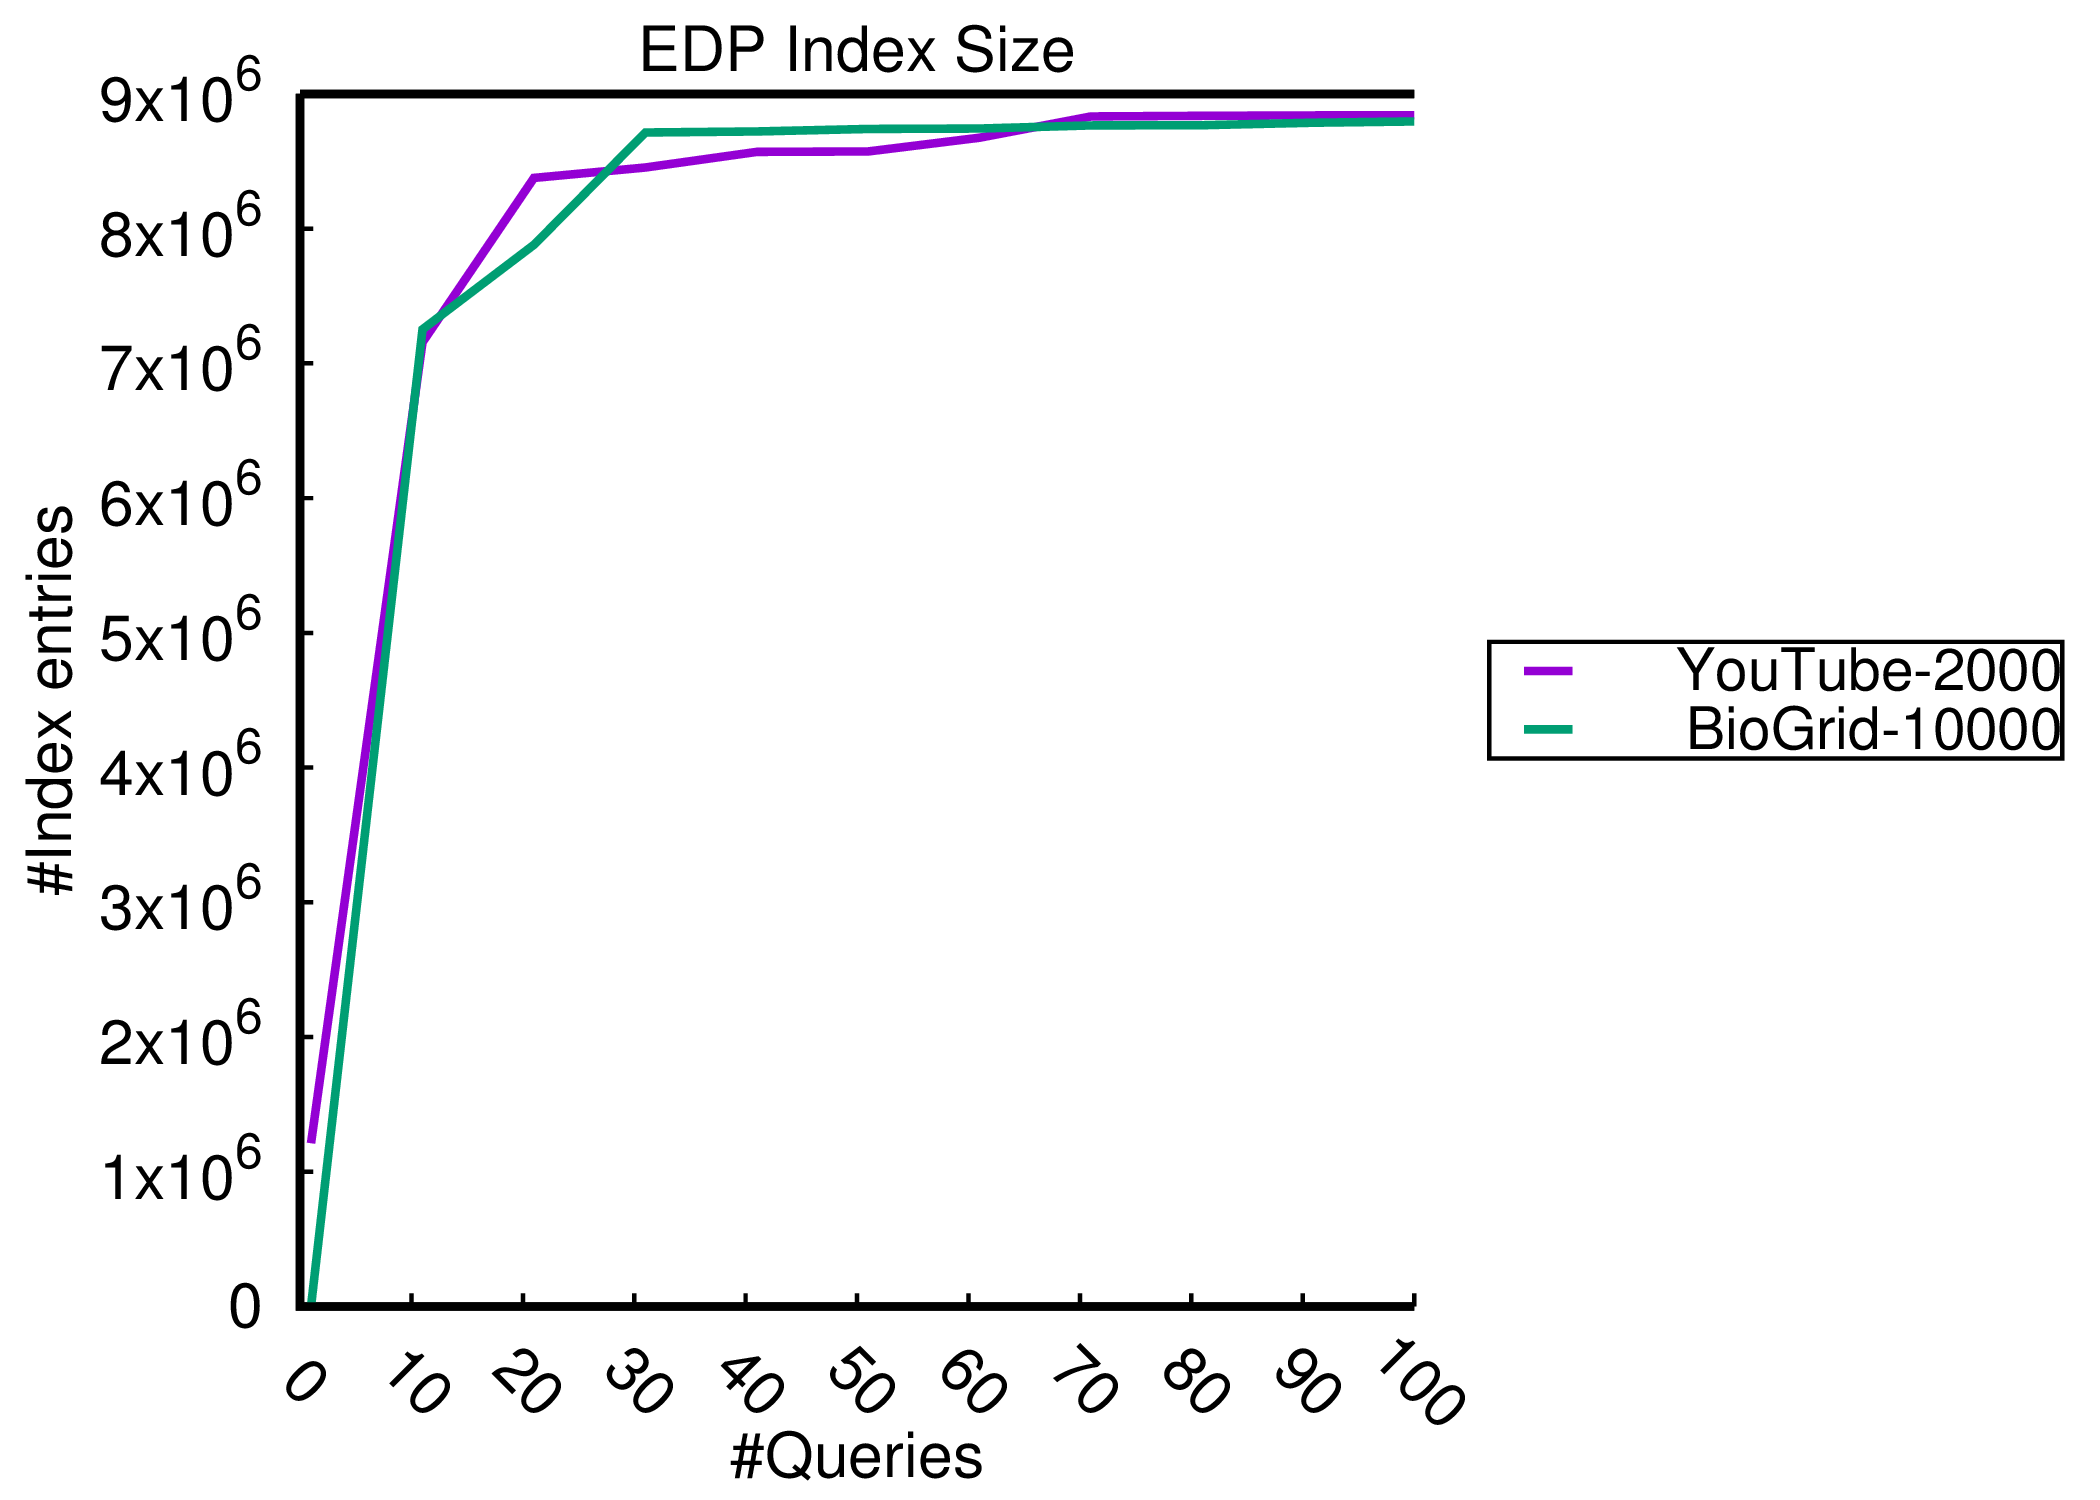
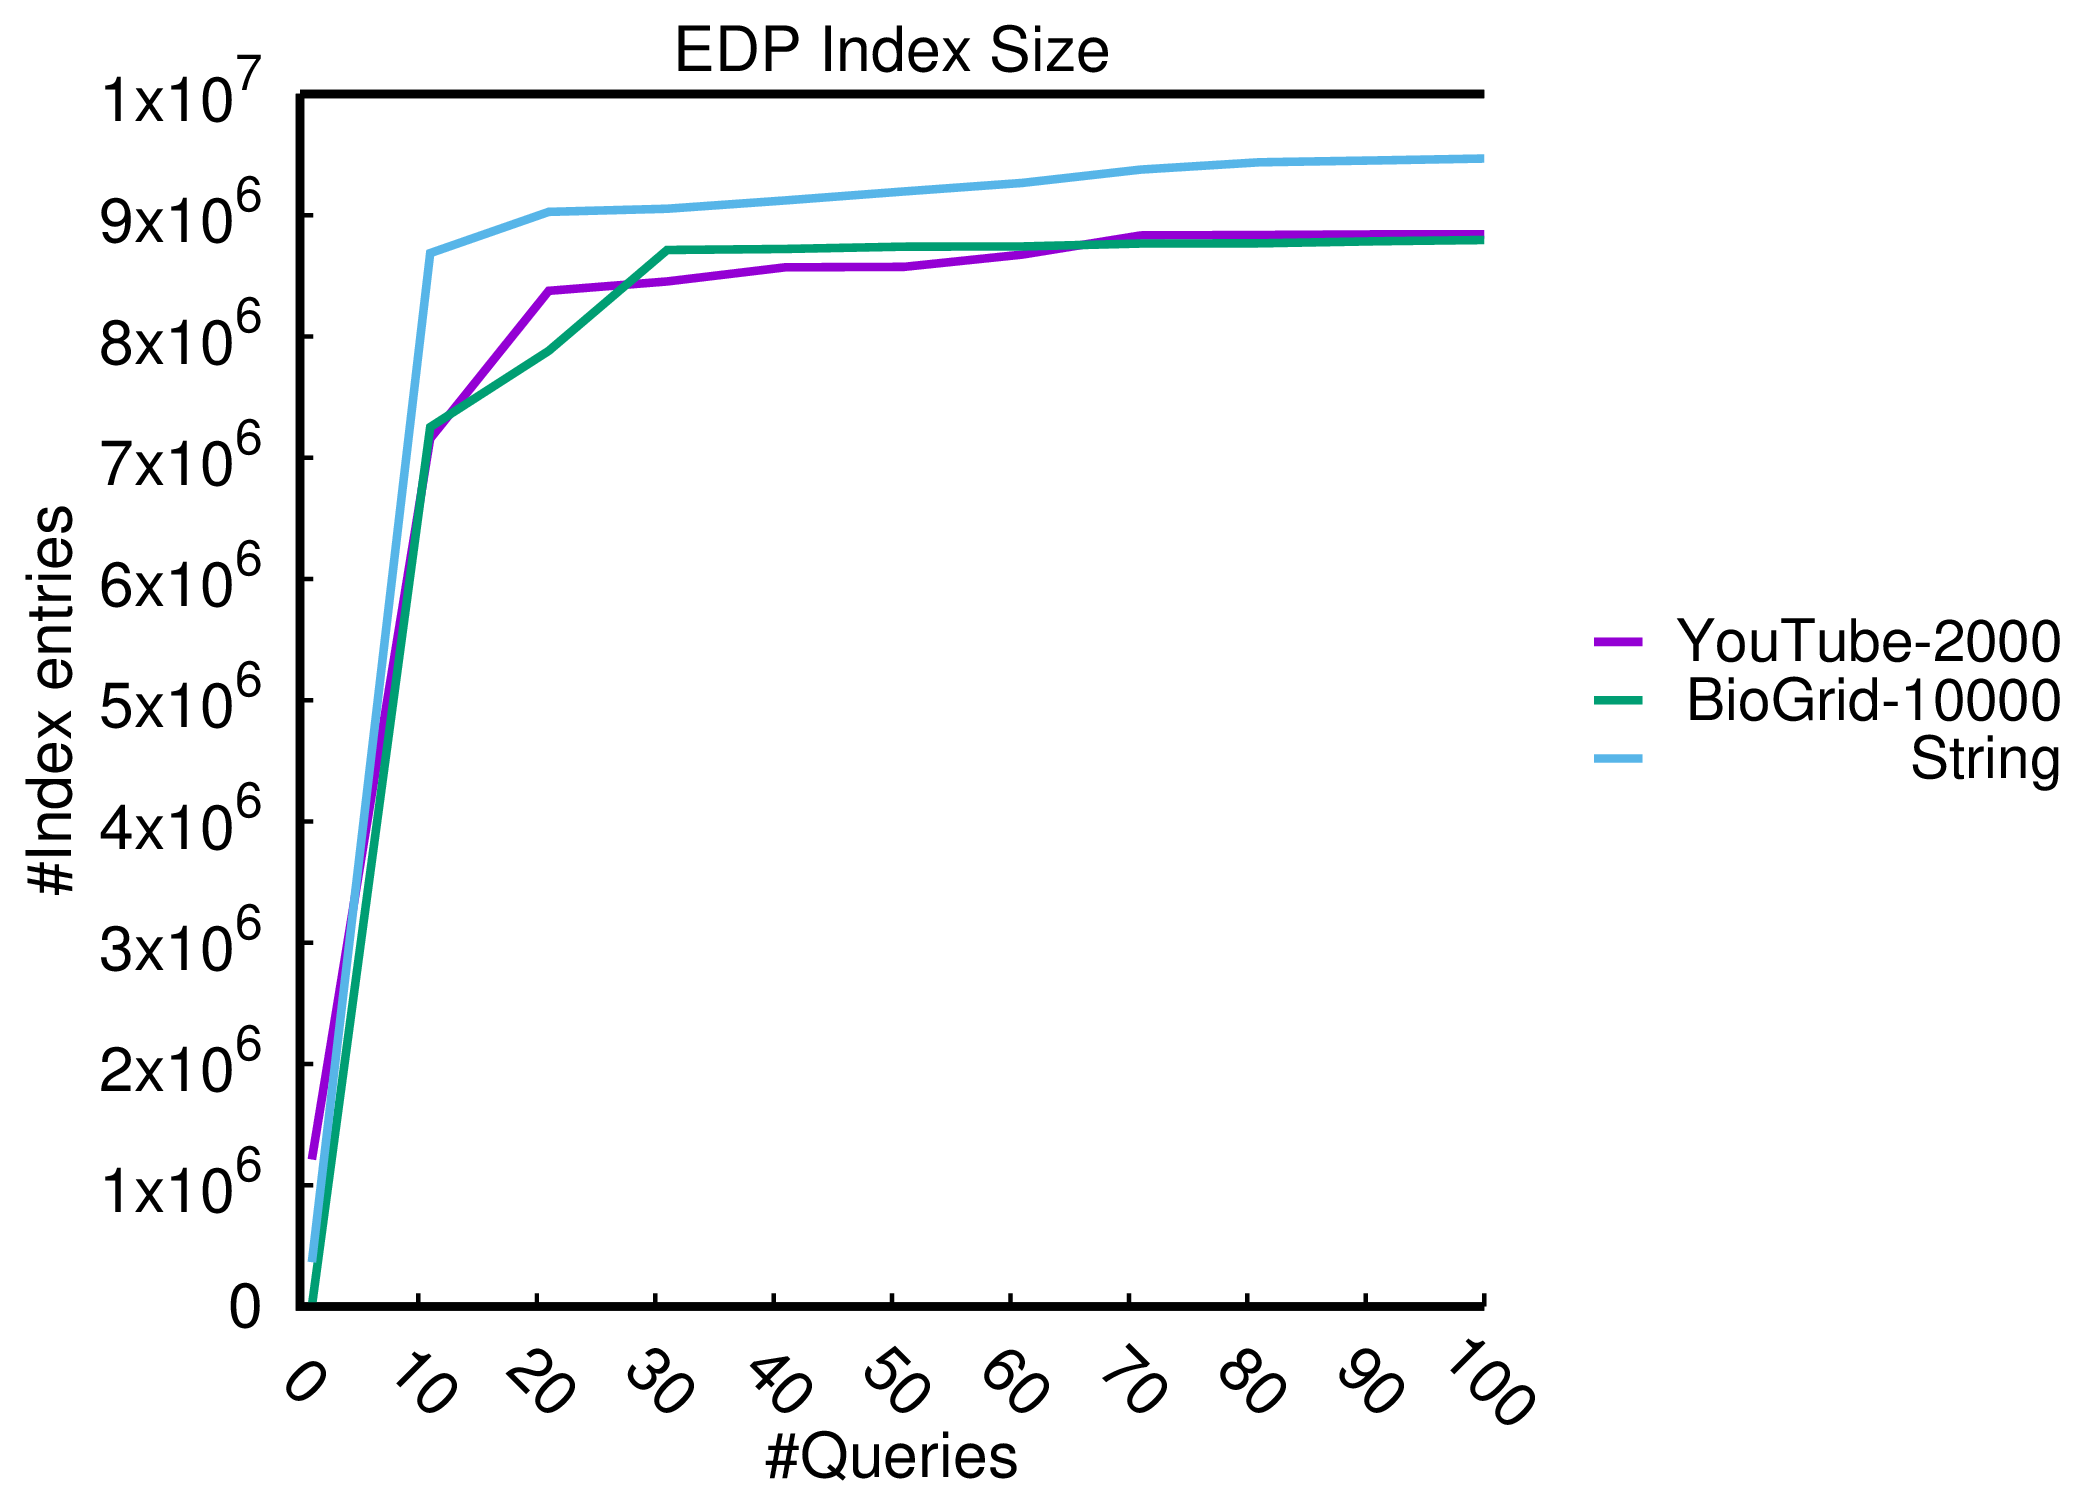
update readme

diff --git a/README.md b/README.md
@@ -2,28 +2,52 @@
 
 > Reproducing the SIGMOD paper "Graph Indexing for Shortest-Path Finding over Dynamic Sub-Graphs"
 
+## Compilation
+
+This code is written in C++, make sure you have a C++ compiler (e.g. `g++`, `clang++`, etc.).
+
+To compile the program, just go into `src` directory and do
+
+```bash
+$ make
+```
+
+It will generate 2 executables, `edp_main` is used for the experiments while `edp_test` is for debugging.
+
+## Running experiments
+
+After compilation, just do (inside `src`)
+
+```bash
+$ ./edp_main /path/to/graph <number-of-labels> <number-of-vertices> > output.txt
+```
+
+This writes the index size after each query to the file `output.txt`. For example,
+
+```bash
+$ ./edp_main ../datasets/youtube_subset.txt 5 2000 > output.txt
+```
+
 ## Datasets
-### Youtube
-- Directed graph
-- |V|: 14992
-- |E|: 27257790
-- Number of labels: 5
+
+Below are some details for the dataset we used.
+
 ### Subset of Youtube
+
 - Directed graph
 - |V|: 1940
 - |E|: 290234
 - Number of labels: 5
-### Biogrid
-- Undirected graph
-- |V| = 68066
-- |E| = 1345806
-- Number of labels = 7
+
 ### Subset of Biogrid
+
 - Undirected graph
 - |V| = 8783
 - |E| = 199009
 - Number of labels = 7
+
 ### String
+
 - Unidrected graph
 - |V| = 4458
 - |E| = 161367
